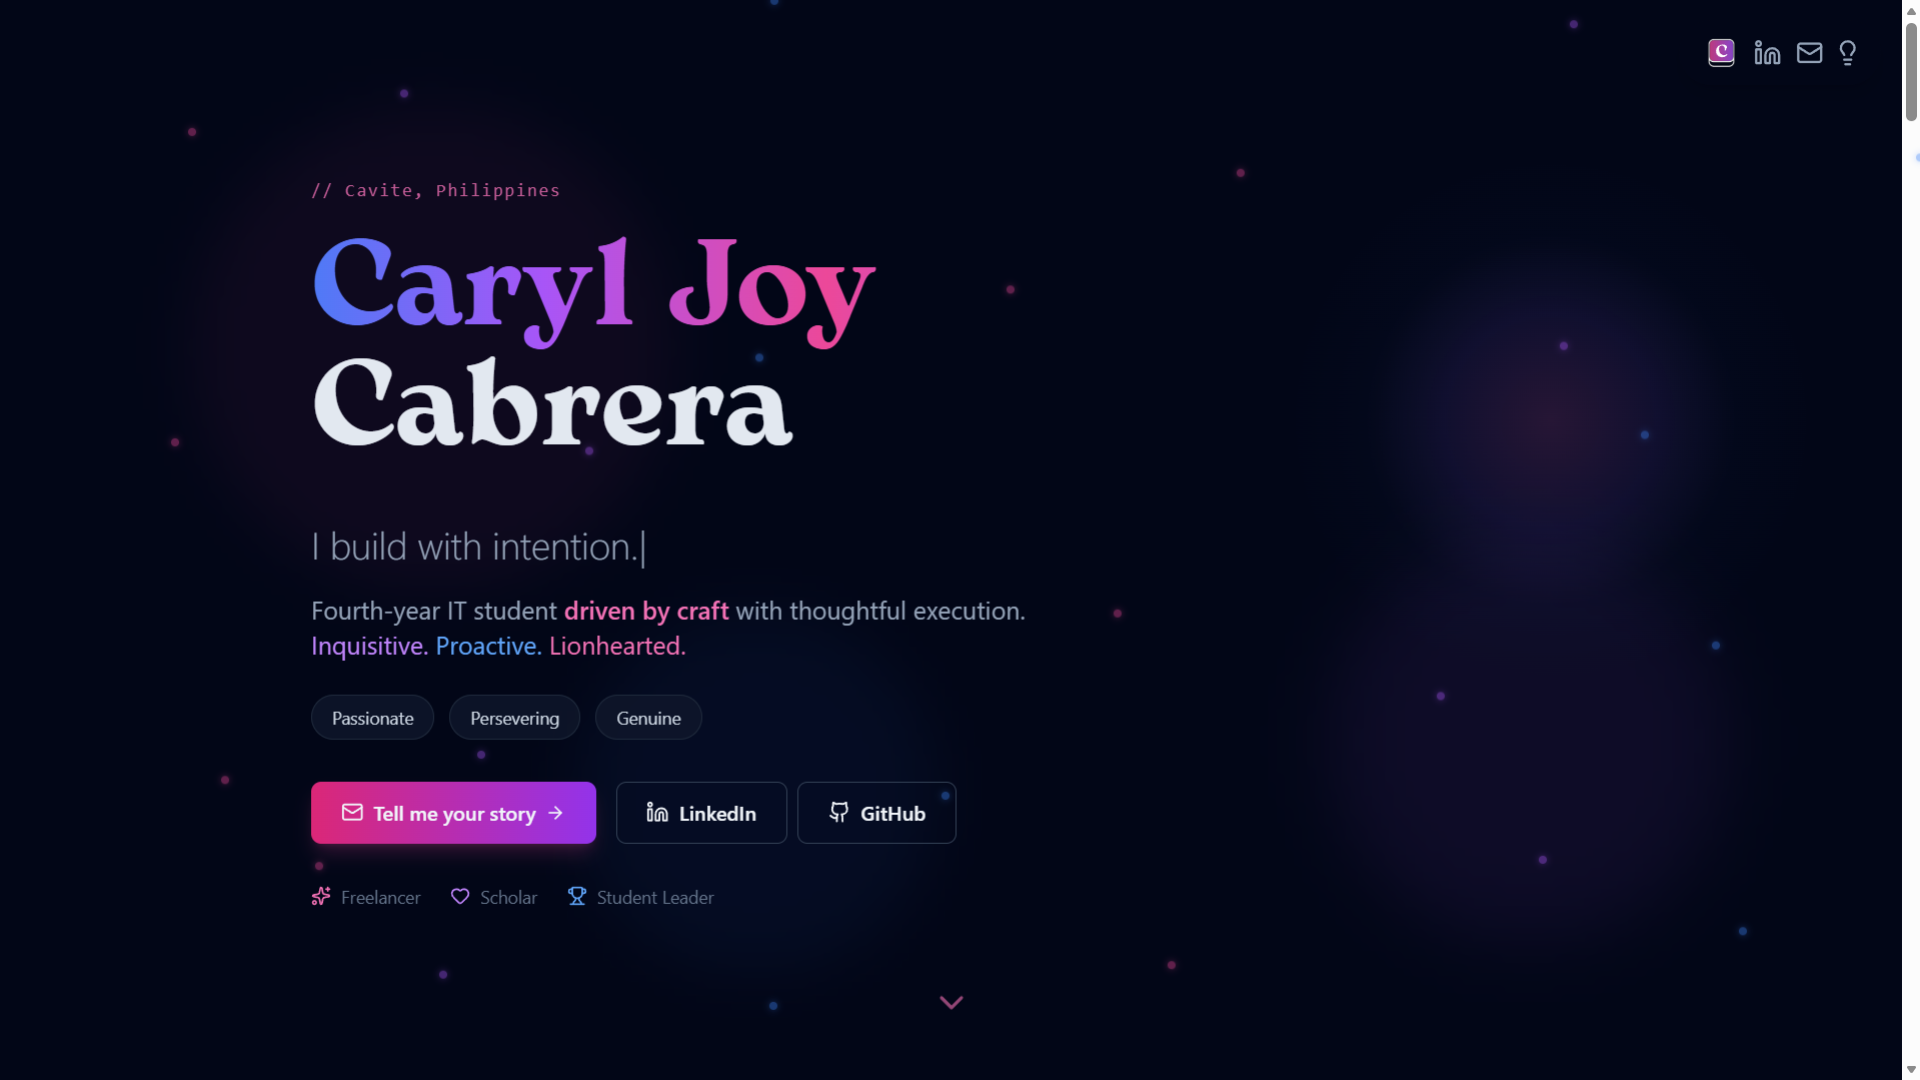
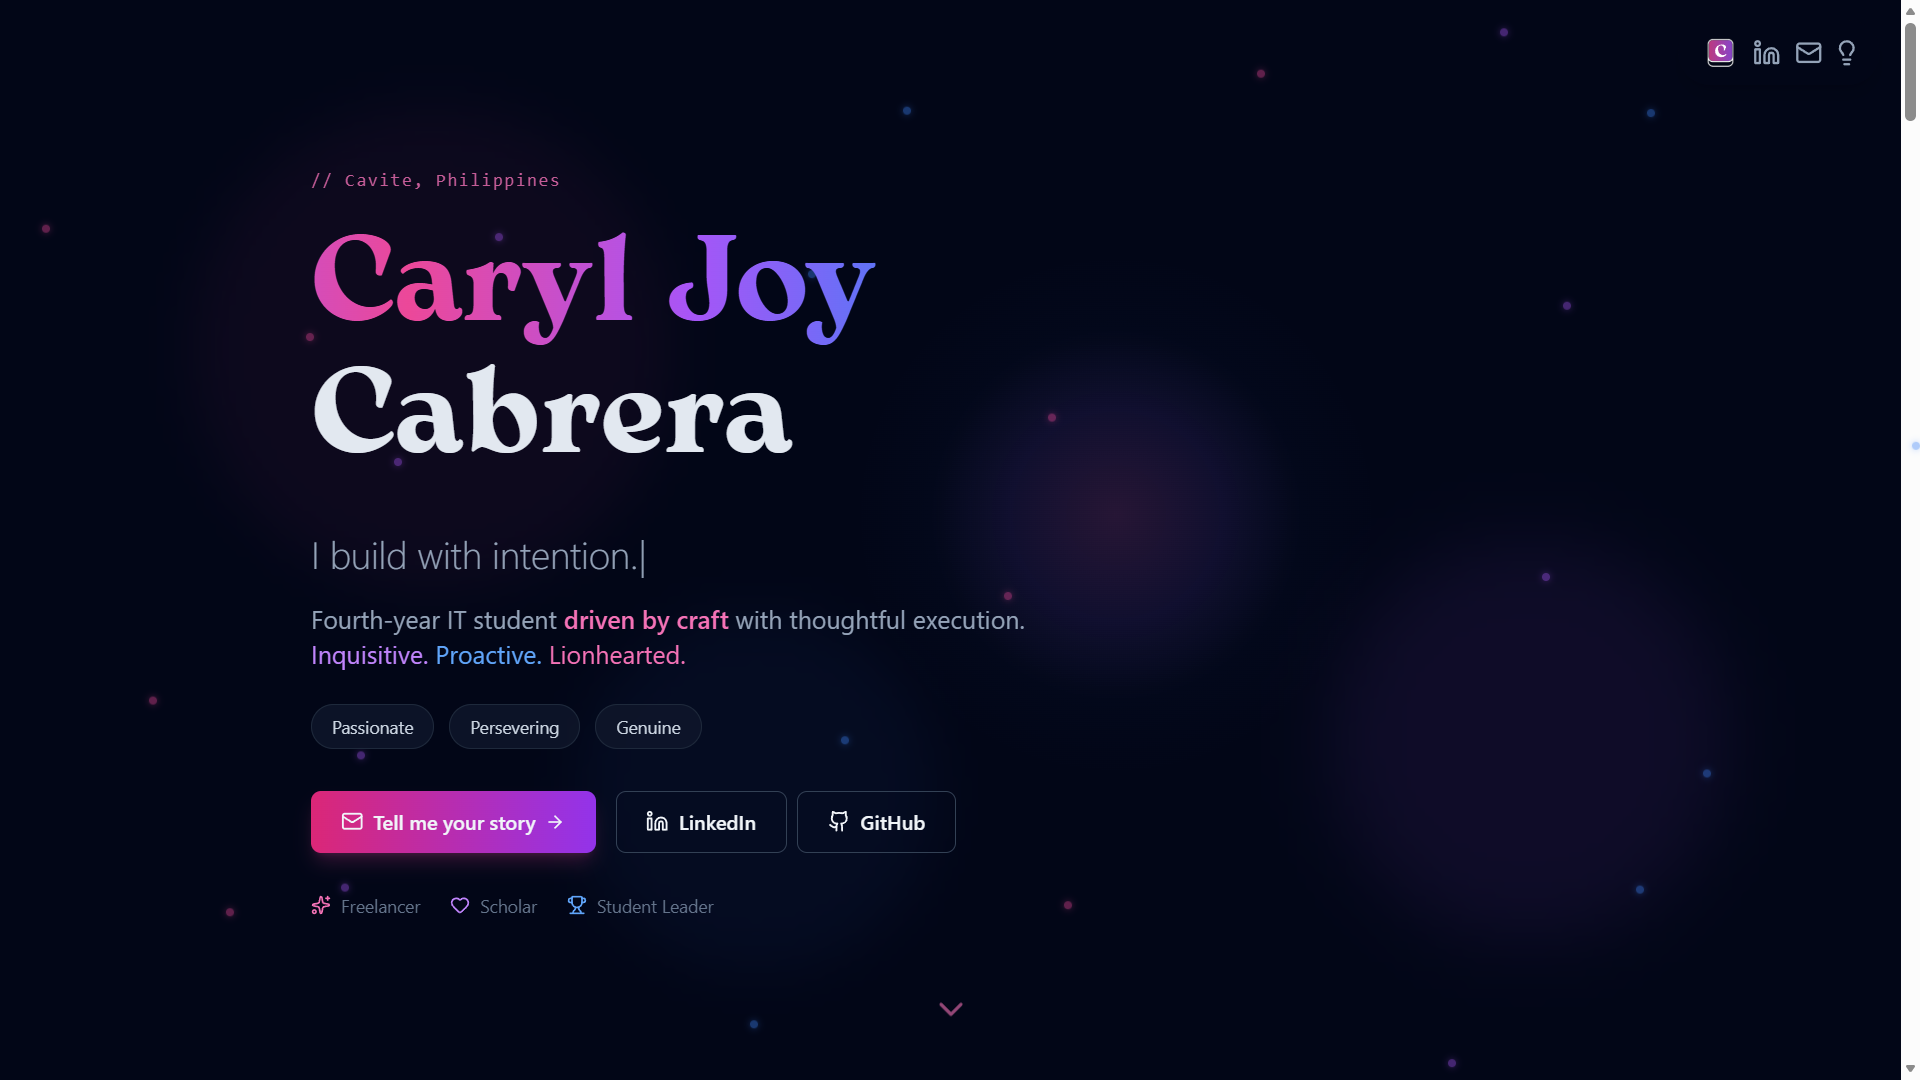
updated

diff --git a/src/pages/Home.jsx b/src/pages/Home.jsx
@@ -343,8 +343,8 @@ export default function Home() {
       icon: '🔐'
     },
     {
-      title: 'TOEIC Global English (C1 Equivalent)',
-      org: 'CEFR',
+      title: 'Global English (Score: 980 | CEFR C1 Equivalent)',
+      org: 'TOEIC',
       year: '2024',
       icon: '🌐'
     },
@@ -926,14 +926,14 @@ export default function Home() {
           
           {/* Main name with gradient */}
           <h1
-            className={`text-5xl xs:text-6xl sm:text-7xl md:text-8xl font-bold mb-6 opacity-0 ${heroTextVisible ? 'slide-up stagger-2' : ''}`}
-            style={{ lineHeight: 1, paddingBottom: '0.15em', overflow: 'visible' }}
+            className={`text-6xl xs:text-7xl sm:text-8xl md:text-8xl font-bold mb-6 opacity-0 ${heroTextVisible ? 'slide-up stagger-2' : ''}`}
+            style={{ lineHeight: 1.1, paddingBottom: '0.2em', overflow: 'visible', marginBottom: '1rem' }}
           >
-            <span className="shimmer-text" style={{ lineHeight: 1, display: 'inline-block' }}>
+            <span className="shimmer-text" style={{ lineHeight: 1.1, display: 'inline-block' }}>
               Caryl Joy
             </span>
             <br />
-            <span className="text-slate-200">Cabrera</span>
+            <span className="text-slate-200" style={{ lineHeight: 1.1 }}>Cabrera</span>
           </h1>
           
           {/* Typing effect tagline */}
